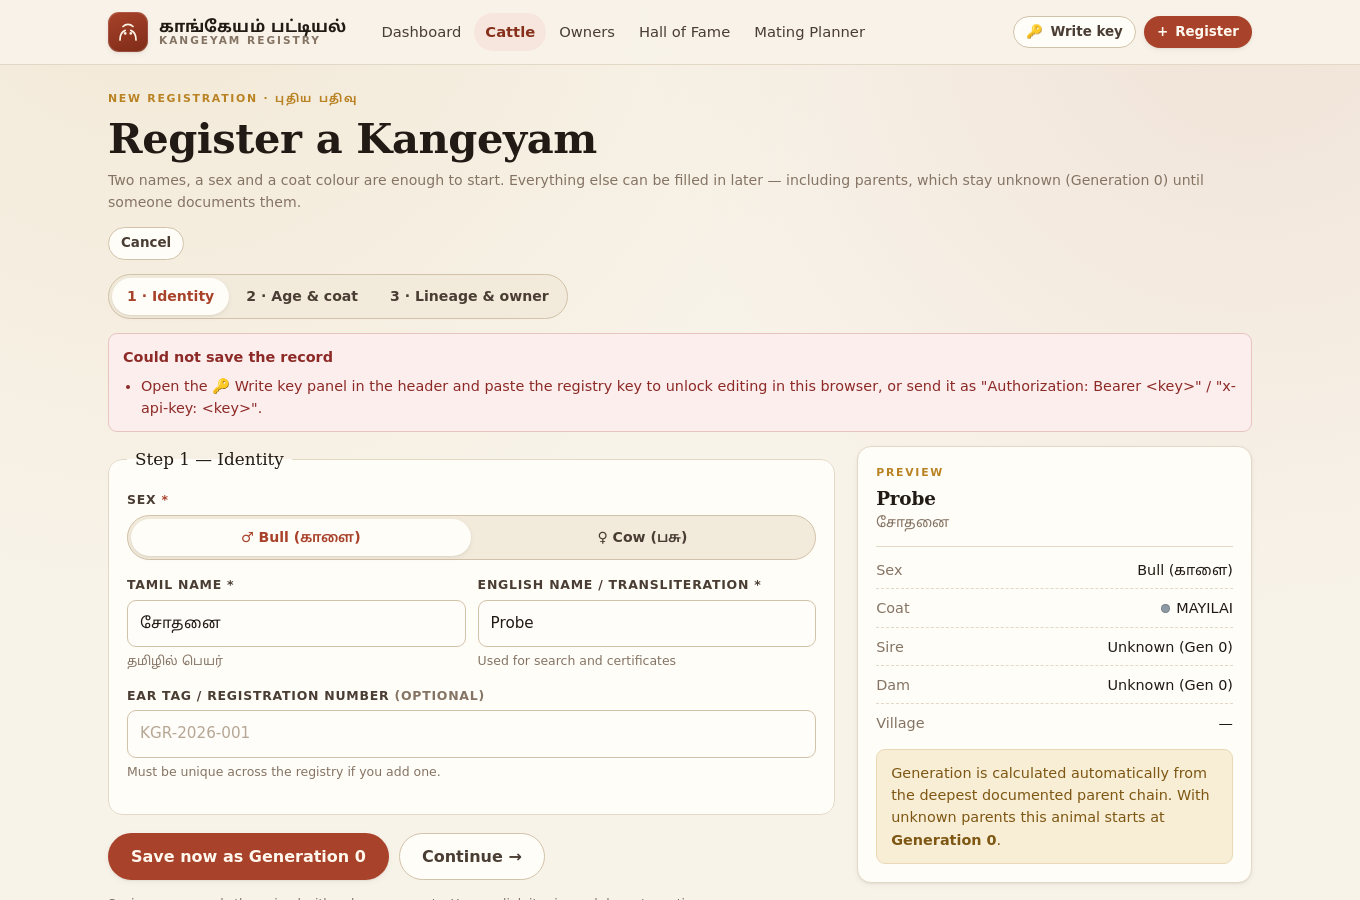
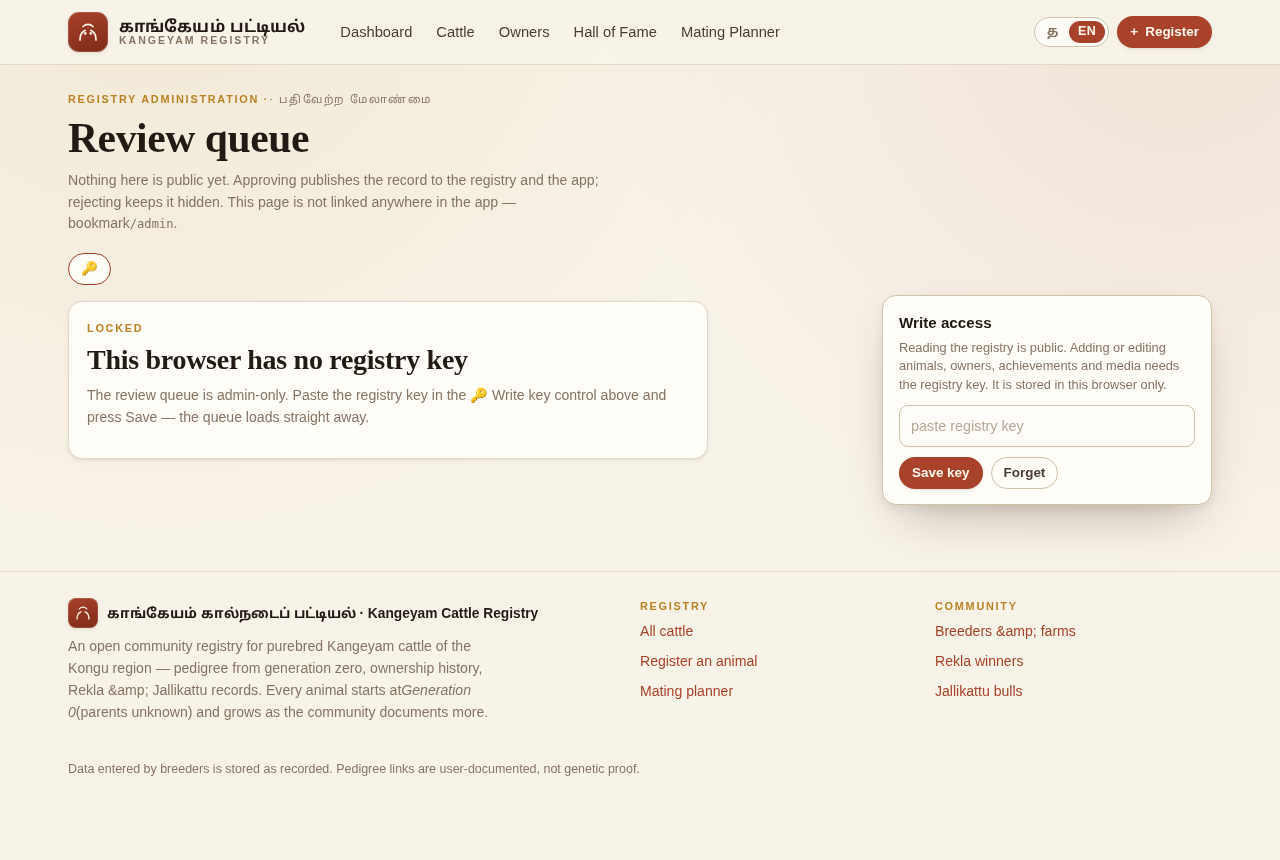
feat: rotating hero photos, 10-image cap, write key moved to /admin
Hero
- dashboard hero now crossfades through six new photographs
  (web/public/hero/, resized ≤1600px) every 4 seconds; old bull-herd.jpg
  background removed from the hero (it stays as a gallery sample)
- hero-slideshow component owns the timer, drops it on navigate-away, and
  honours prefers-reduced-motion (single still image)

Media
- MAX_MEDIA_PER_ANIMAL = 10 enforced on both write paths (inline media[]
  on POST /animals, and POST /animals/:id/media) — the data model is one
  animal_media row per image, already N-ready: raising the cap is one number
- gallery disables '+ Add photo' at the limit and shows the cap hint

Write key
- the 🔑 Write key control moves out of the site header into /admin, the
  only place that needs it to approve submissions; saving there reloads the
  queue straight away (WriteKey accepts @onSaved)
- server 401 detail and README now point at /admin; screenshot regenerated

Tests: 25/25 features (rotation timing, cap on both paths, locked→key→queue
approve flow, no header key anywhere public) · 17/17 name API · 17/17 name UI ·
11/11 route audit · 9/9 moderation · i18n:check 589 used / 638 / 0 missing.

diff --git a/web/app/utils/dictionary.js b/web/app/utils/dictionary.js
@@ -271,6 +271,7 @@ const dictionary = {
     "Mating &amp; calving log": "இணை சேர்ப்பு & கன்று ஈனல் பதிவு",
     "Mating Planner": "இணைத் திட்டம்",
     "Mating planner": "இணைத் திட்டம்",
+    "Maximum of 10 images per animal.": "ஒரு கால்நடைக்கு அதிகபட்சம் 10 படங்கள்.",
     "Menu": "பட்டி",
     "Minimum generations": "குறைந்தபட்ச தலைமுறைகள்",
     "Most Kangeyam calves are born red/fawn and change at ~6 months.": "பெரும்பாலான காங்கேயம் கன்றுகள் சிவப்பு/மணல் நிறத்தில் பிறந்து ~6 மாதங்களில் மாறும்.",
@@ -486,6 +487,7 @@ const dictionary = {
     "Thank you — this breeder is waiting for review": "நன்றி — இந்த இனப்பெருக்குநர் சரிபார்ப்புக்காகக் காத்திருக்கிறார்",
     "Thavasal — slipping through uncaught": "தவசல் — பிடிபடாமல் தப்பித்தல்",
     "The highest honour for a Kangeyam bull is to leave the": "காங்கேயம் காளைக்கு மிக உயர்ந்த பெருமை என்பது",
+    "The review queue is admin-only. Paste the registry key in the 🔑 Write key control above and press Save — the queue loads straight away.": "மதிப்பாய்வு வரிசை நிர்வாகிக்கு மட்டும். மேலே உள்ள 🔑 எழுத்துச் சாவி கட்டுப்பாட்டில் பதிவுச் சாவியை ஒட்டி Save அழுத்துங்கள் — வரிசை உடனே ஏற்றப்படும்.",
     "The review queue is admin-only. Paste the registry key with the": "சரிபார்ப்பு வரிசை நிர்வாகிகளுக்கு மட்டும். பதிவேட்டுச் சாவியை",
     "This browser has no registry key": "இந்த உலாவியில் பதிவேட்டுச் சாவி இல்லை",
     "This is a stub ancestor.": "இது ஒரு வரைவு முன்னோர்.",

diff --git a/server/src/index.js b/server/src/index.js
@@ -11,6 +11,7 @@ const {
   ENUMS, ApiError, ageFrom, documentedGenerations, ancestorMap, descendants,
   compatibility, summary, detail, serializeAchievement, serializeOwner,
   validateAnimalPayload, resolveNames, clearCaches, bool, getAnimal, qMedia, qOwnerships, qAchievements,
+  MAX_MEDIA_PER_ANIMAL,
 } = require('./lib');
 
 seedIfEmpty();
@@ -82,7 +83,7 @@ api.use((req, res, next) => {
   return next(new ApiError(
     401,
     'Admin access requires a key',
-    'Open the 🔑 Write key panel in the header and paste the registry key, or send it as "Authorization: Bearer <key>" / "x-api-key: <key>".',
+    'Open /admin and paste the registry key into the 🔑 Write key control there, or send it as "Authorization: Bearer <key>" / "x-api-key: <key>" (the key is stored in that browser only).',
   ));
 });
 
@@ -349,6 +350,11 @@ api.post('/animals', (req, res) => {
     created.owners.push(ownerId);
   }
   if (Array.isArray(req.body.media)) {
+    if (req.body.media.length > MAX_MEDIA_PER_ANIMAL) {
+      throw new ApiError(422, 'Validation failed', [
+        `media: at most ${MAX_MEDIA_PER_ANIMAL} images per animal`,
+      ]);
+    }
     for (const m of req.body.media) {
       if (!m || !m.media_url) continue;
       db.prepare(
@@ -511,9 +517,14 @@ api.post('/animals/:id/media', (req, res) => {
   if (b.life_stage && !ENUMS.lifeStage[b.life_stage]) throw new ApiError(422, 'Invalid life_stage');
 
   const isPrimary = b.is_primary ? 1 : 0;
-  if (isPrimary) db.prepare('UPDATE animal_media SET is_primary = 0 WHERE animal_id = ?').run(animal.id);
   // first photo automatically becomes primary
   const count = qMedia.all(animal.id).length;
+  if (count >= MAX_MEDIA_PER_ANIMAL) {
+    throw new ApiError(422, 'Validation failed', [
+      `This animal already has the maximum of ${MAX_MEDIA_PER_ANIMAL} images.`,
+    ]);
+  }
+  if (isPrimary) db.prepare('UPDATE animal_media SET is_primary = 0 WHERE animal_id = ?').run(animal.id);
   const info = db.prepare(
     `INSERT INTO animal_media (animal_id, media_url, media_type, life_stage, caption, is_primary)
      VALUES (?, ?, ?, ?, ?, ?)`

diff --git a/web/app/components/hero-slideshow.js b/web/app/components/hero-slideshow.js
@@ -1,0 +1,42 @@
+import Component from '@glimmer/component';
+import { tracked } from '@glimmer/tracking';
+import { registerDestructor } from '@ember/destroyable';
+
+const INTERVAL_MS = 4000;
+
+/**
+ * Dashboard hero background: the registry's own photographs crossfading on a
+ * 4-second timer. Decorative (aria-hidden), so assistive tech ignores it, and
+ * the timer is dropped with the component when the visitor navigates away.
+ * Visitors who prefer reduced motion get a single still image instead.
+ */
+export default class HeroSlideshowComponent extends Component {
+  slides = [
+    '/hero/hero-1.jpg',
+    '/hero/hero-2.jpg',
+    '/hero/hero-3.jpg',
+    '/hero/hero-4.jpg',
+    '/hero/hero-5.jpg',
+    '/hero/hero-6.jpg',
+  ];
+
+  @tracked index = 0;
+
+  _timer = null;
+
+  constructor() {
+    super(...arguments);
+    registerDestructor(this, () => {
+      if (this._timer) window.clearInterval(this._timer);
+    });
+    const reduced =
+      typeof window !== 'undefined' &&
+      typeof window.matchMedia === 'function' &&
+      window.matchMedia('(prefers-reduced-motion: reduce)').matches;
+    if (!reduced) {
+      this._timer = window.setInterval(() => {
+        this.index = (this.index + 1) % this.slides.length;
+      }, INTERVAL_MS);
+    }
+  }
+}

diff --git a/server/src/lib.js b/server/src/lib.js
@@ -2,6 +2,12 @@
 
 const { db } = require('./db');
 
+/* Photos & videos per animal: the optional cap for now. The data model is
+ * one row per image in animal_media (already N-ready — no schema change is
+ * needed to raise this), so scaling to "no limit" or a bigger number is a
+ * one-line change here. Keep the gallery hint in sync when it moves. */
+const MAX_MEDIA_PER_ANIMAL = 10;
+
 /* ────────────────────────────────────────────────────────────────────────────
  * Enumerations — single source of truth for labels in both languages.
  * ──────────────────────────────────────────────────────────────────────────── */
@@ -619,6 +625,7 @@ function validateAnimalPayload(body, { partial = false, current = null } = {}) {
 
 module.exports = {
   ENUMS,
+  MAX_MEDIA_PER_ANIMAL,
   ANIMAL_FIELDS,
   ApiError,
   resolveNames,

diff --git a/web/app/styles/app.css b/web/app/styles/app.css
@@ -249,8 +249,13 @@ code, .mono { font-family: var(--mono); font-size: 0.86em; }
 .hero-inner { position: relative; z-index: 2; padding: clamp(26px, 5vw, 52px); }
 .hero h1 { color: #fff9ee; margin-bottom: 10px; }
 .hero p { color: rgba(255, 246, 233, 0.86); max-width: 56ch; }
-.hero-media { position: absolute; inset: 0; z-index: 1; opacity: 0.42; }
-.hero-media img { width: 100%; height: 100%; object-fit: cover; }
+.hero-media { position: absolute; inset: 0; z-index: 1; opacity: 0.42; overflow: hidden; }
+.hero-media img {
+  position: absolute; inset: 0; width: 100%; height: 100%; object-fit: cover;
+  opacity: 0; transition: opacity 1.1s ease;
+}
+.hero-media img.active { opacity: 1; }
+@media (prefers-reduced-motion: reduce) { .hero-media img { transition: none; } }
 .hero-stats { display: grid; grid-template-columns: repeat(2, minmax(0, 1fr)); gap: 18px 26px; margin-top: 26px; }
 @media (min-width: 620px) { .hero-stats { display: flex; flex-wrap: wrap; } }
 .hero-stat .n { font-family: var(--serif); font-size: clamp(1.5rem, 4vw, 1.85rem); line-height: 1; color: #ffd9a8; }

diff --git a/web/app/components/write-key.js b/web/app/components/write-key.js
@@ -40,6 +40,7 @@ export default class WriteKeyComponent extends Component {
     this.api.setWriteKey(this.draft);
     this.note = 'Saved — writes are unlocked in this browser.';
     this.open = false;
+    this.args.onSaved?.();
   }
 
   @action
@@ -49,5 +50,6 @@ export default class WriteKeyComponent extends Component {
     this.draft = '';
     this.note = 'Key removed; this browser can only read now.';
     this.open = false;
+    this.args.onSaved?.();
   }
 }

diff --git a/web/app/controllers/animals/animal/gallery.js b/web/app/controllers/animals/animal/gallery.js
@@ -39,6 +39,11 @@ export default class AnimalsAnimalGalleryController extends Controller {
     return this.model.animal;
   }
 
+  /** Keep in sync with MAX_MEDIA_PER_ANIMAL in server/src/lib.js. */
+  get full() {
+    return this.model.media.length >= 10;
+  }
+
   get items() {
     if (!this.filter) return this.model.media;
     return this.model.media.filter((m) => m.life_stage === this.filter);

diff --git a/README.md b/README.md
@@ -204,7 +204,8 @@ sire/dam if given, and Approve / Reject buttons plus counters.
 
 The page renders in three states:
 
-1. **Locked** — this browser has no registry key (tell the admin to use 🔑 Write key).
+1. **Locked** — this browser has no registry key (paste it into the 🔑 Write key
+   control on this page; the queue loads as soon as it is saved).
 2. **Queue** — pending animals and breeders, oldest first.
 3. **All clear** — nothing waiting.
 
@@ -273,11 +274,11 @@ A refused write answers:
 
 ```json
 { "errors": [{ "status": 401, "title": "Admin access requires a key",
-  "detail": "Open the 🔑 Write key panel in the header …" }] }
+  "detail": "Open /admin and paste the key into the 🔑 Write key control …" }] }
 ```
 
 The Ember client attaches the key from `localStorage` (`kangeyam.writeKey`). Set it with the
-**🔑 Write key** button in the header, or with a link such as `https://…/?key=<key>` — the app
+**🔑 Write key** control on `/admin`, or with a link such as `https://…/?key=<key>` — the app
 stores it and strips it from the URL so it stays out of history.
 
 This is a shared secret for a small registry team, not per-user authentication: anyone you send
@@ -310,7 +311,7 @@ A wrong or missing key answers:
 
 ```json
 { "errors": [{ "status": 401, "title": "Write access requires a key",
-  "detail": "Open the 🔑 Write key panel in the header …" }] }
+  "detail": "Open /admin and paste the key into the 🔑 Write key control …" }] }
 ```
 
 The Ember client attaches the key from `localStorage` (`kangeyam.writeKey`). Two ways to set it:
@@ -358,6 +359,15 @@ it in both `name_ta` and `name_en`, so search, sorting and certificates work eit
 callers that genuinely have both names still send `name_ta` / `name_en` explicitly. When a record
 does have two different names, the primary follows the active language and the other script is
 shown as the secondary line.
+
+**Photos.** Every animal carries an optional gallery of up to **10** images
+(`MAX_MEDIA_PER_ANIMAL` in `server/src/lib.js` — one number to raise). The data model is
+one `animal_media` row per image with no fixed columns, so scaling to *n* images needs no
+schema change, only that constant. Images are added by URL or uploaded from the device
+(max 3.5 MB, stored inline with the record).
+
+**Hero.** The dashboard hero crossfades through six photographs in `web/public/hero/`
+every 4 seconds (paused for visitors who prefer reduced motion).
 
 **What is *not* translated:** a breeder's own words (notes, captions, achievement titles) and
 free-text village names are stored once and shown exactly as entered; the common Kongu Nadu
